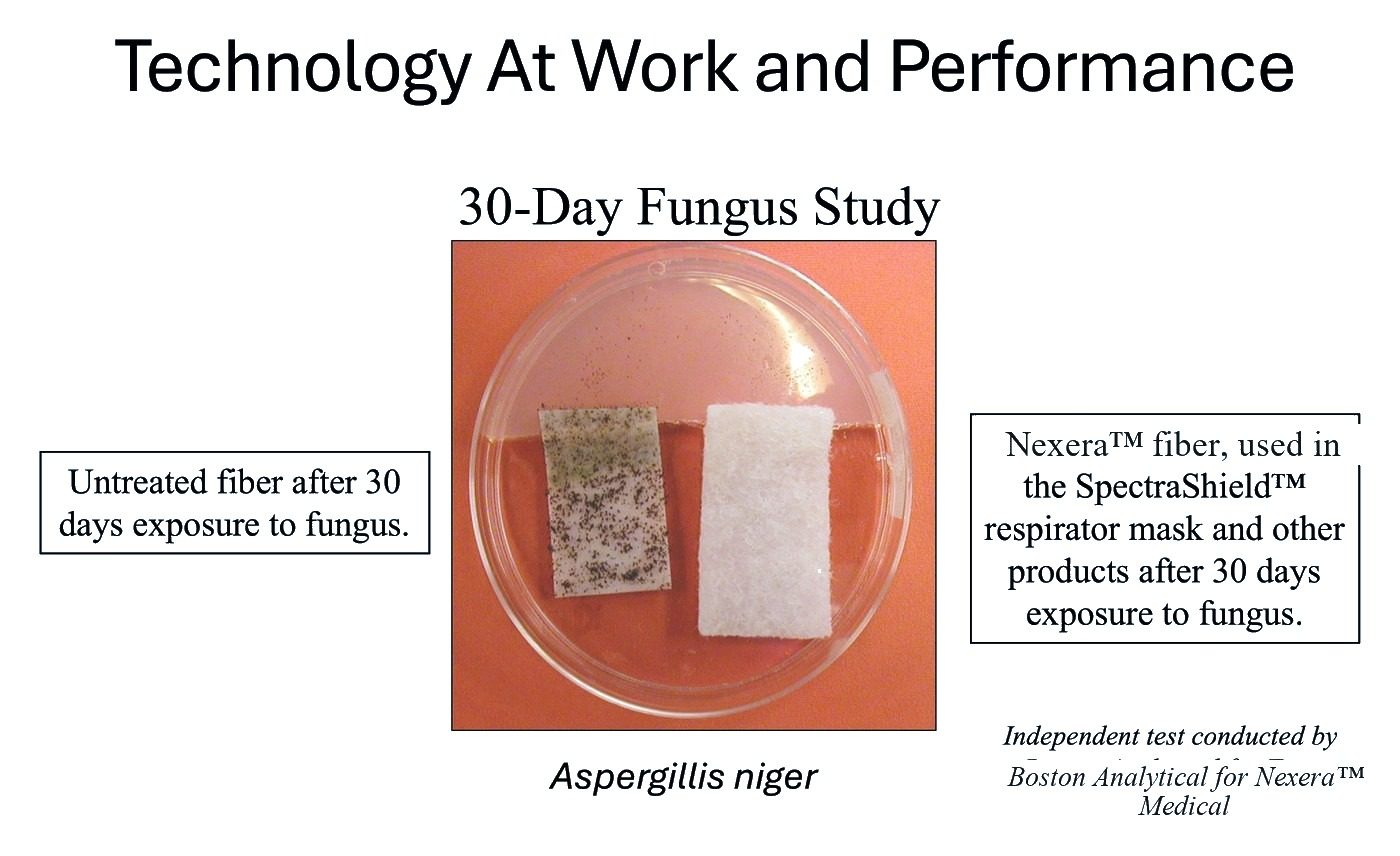
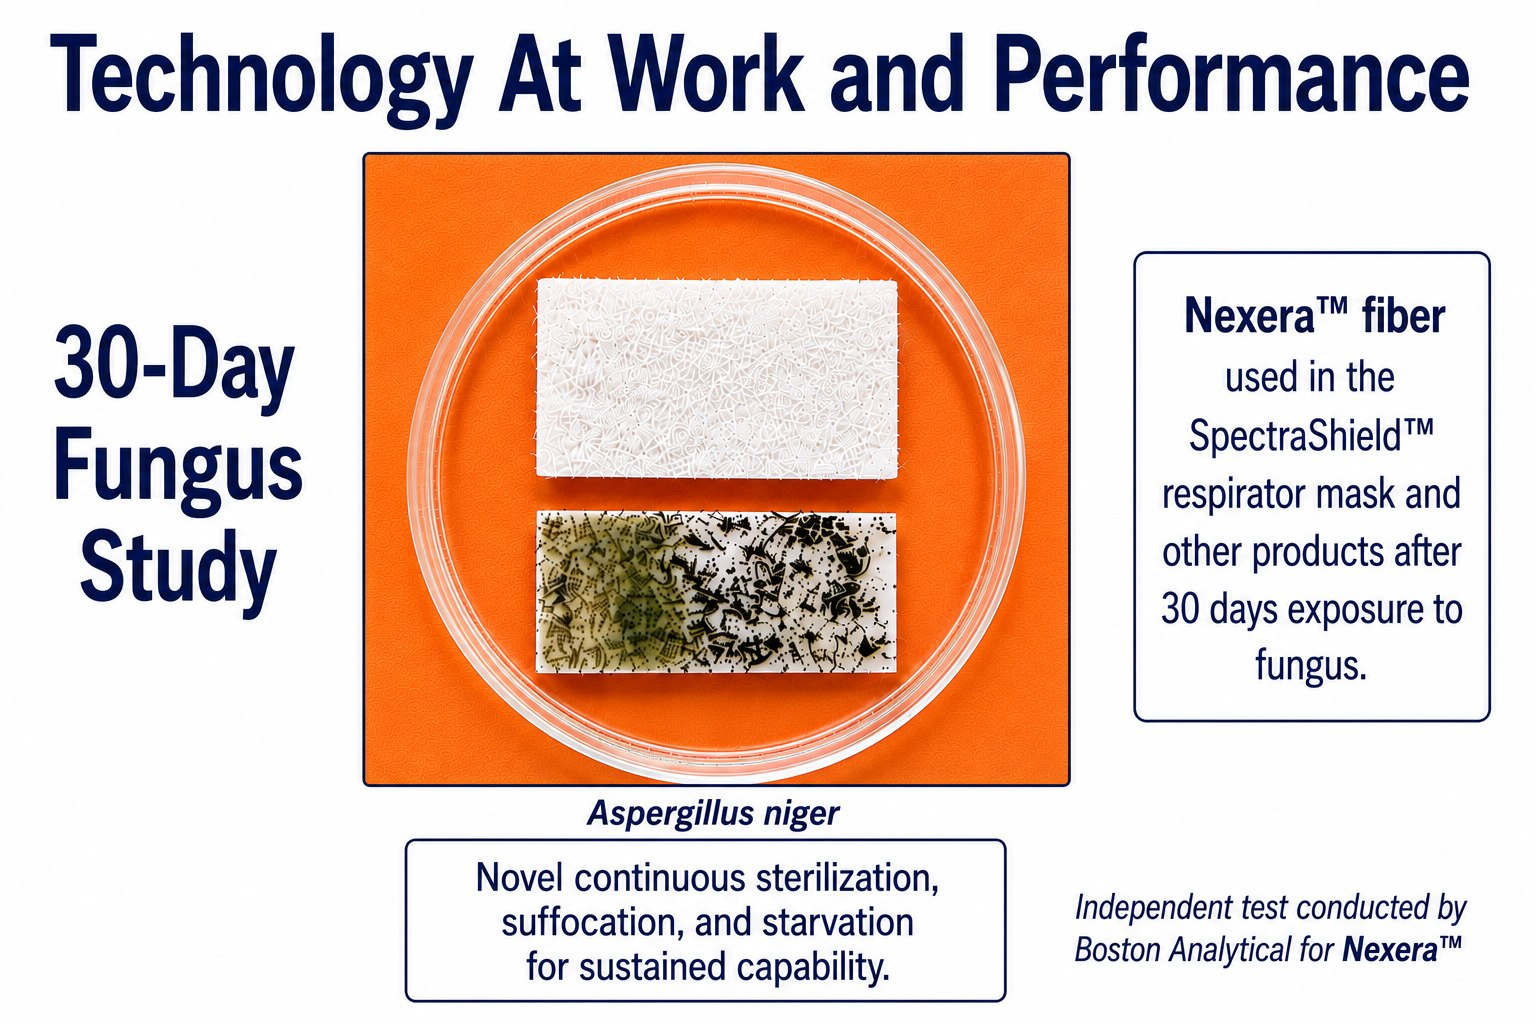
Update two right-panel images from images 2 drop
- Antimicrobial: replace "Technology At Work and Performance" image with
  Tech at Work Nexera2 (tech_at_work.png -> .jpg thumb + full; height 130->137)
- How The Mask Works: replace bottom microbe image with Nexera Microbes 12Jul26
  (nexera_microbe_tech_image2 thumb + full; height 110->116)

diff --git a/cfiles/products_antimicrobial.html b/cfiles/products_antimicrobial.html
@@ -164,7 +164,7 @@ Products
 
 <br>
 <img loading="lazy" class="zoomable" data-full="../graphics/tech_antimicrobial_agent_full.jpg" src="../graphics/tech_antimicrobial_agent.png" width="206" height="118" border="0" alt="Technology of the antimicrobial agent (click to enlarge)" style="margin-bottom: 12px;">
-<img loading="lazy" class="zoomable" data-full="../graphics/tech_at_work_full.jpg" src="../graphics/tech_at_work.png" width="206" height="130" border="0" alt="The technology at work (click to enlarge)">
+<img loading="lazy" class="zoomable" data-full="../graphics/tech_at_work_full.jpg" src="../graphics/tech_at_work.jpg" width="206" height="137" border="0" alt="The technology at work (click to enlarge)">
 
 </td>
 </tr>

diff --git a/cfiles/products_technology.html b/cfiles/products_technology.html
@@ -140,7 +140,7 @@ Products
 
 <br>
 <img loading="lazy" class="zoomable" data-full="../graphics/nexera_tech_image1_full.jpg" src="../graphics/nexera_tech_image1.png" width="206" height="137" border="0" alt="American respiratory innovation (click to enlarge)" style="margin-bottom: 12px;">
-<img loading="lazy" class="zoomable" data-full="../graphics/nexera_microbe_tech_image2_full.jpg" src="../graphics/nexera_microbe_tech_image2.jpg" width="206" height="110" border="0" alt="Nexera&trade; microbe technology (click to enlarge)">
+<img loading="lazy" class="zoomable" data-full="../graphics/nexera_microbe_tech_image2_full.jpg" src="../graphics/nexera_microbe_tech_image2.jpg" width="206" height="116" border="0" alt="Nexera&trade; microbe technology (click to enlarge)">
 
 </td>
 </tr>